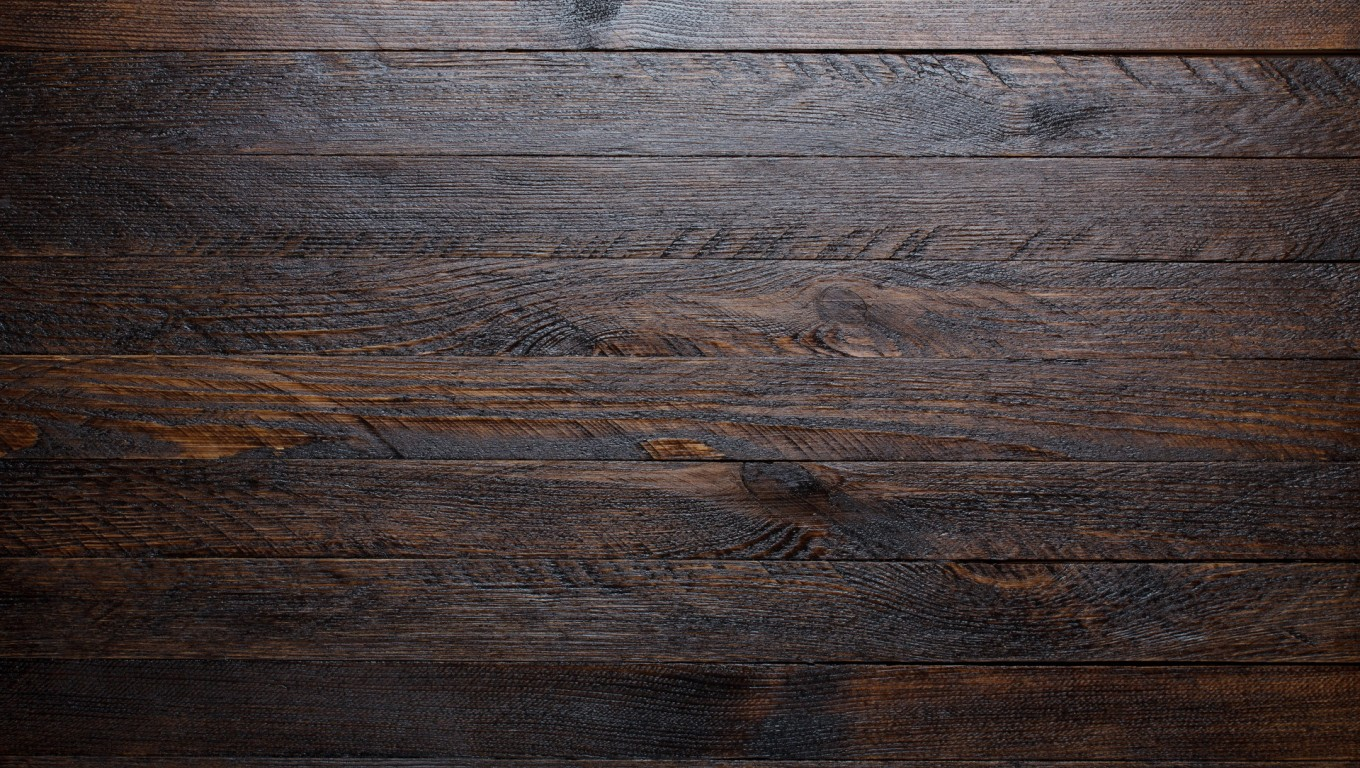
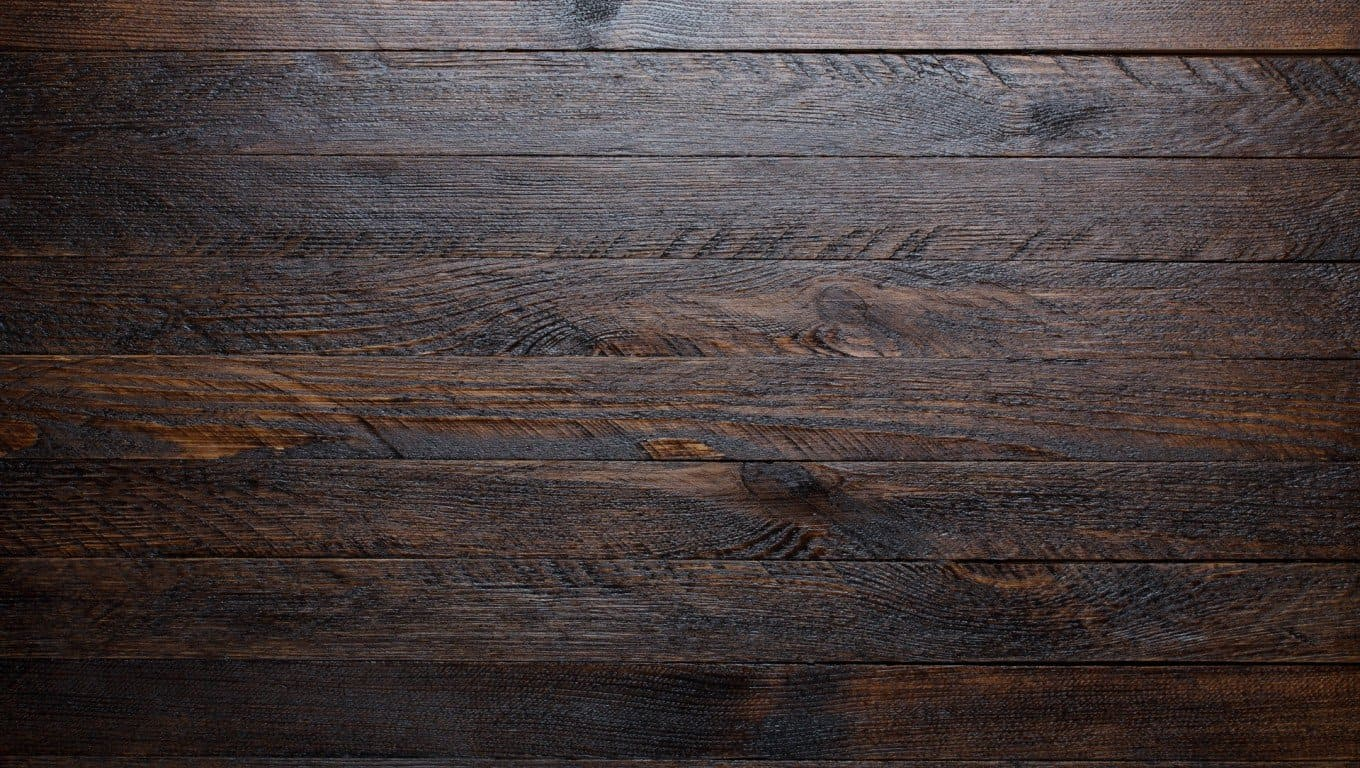
compressed 2 images that were too large

diff --git a/portfolio_update_v1/blog.html b/portfolio_update_v1/blog.html
@@ -34,7 +34,7 @@
            I tend do be critical of myself as it is so that will be quite interesting... I look forward to it though as it will help me grow as a developer.
         </p>
         <p>Well...that's all I got so far folks! I will try and update this when I can. <strong>Back to the code!</strong></p>
-        <img src="images/macbook_code.jpg" class="blog-img" alt="Picture of code on a mackbook"><p><em>Photo by Goran Ivos on Unsplash</em></p>
+        <img src="images/macbook_code1.jpg" class="blog-img" alt="Picture of code on a mackbook"><p><em>Photo by Goran Ivos on Unsplash</em></p>
       </div> 
 
 

diff --git a/portfolio_update_v1/index.html b/portfolio_update_v1/index.html
@@ -33,7 +33,7 @@
 
       <div class="content-box">
         <h2>Goals</h2>
-        <p>I want to master the process of building web sites and increase my knowledge, skills and abilities in:</p>
+        <p>I want to master the process of building web sites and increasing my knowledge, skills and abilities in:</p>
         <ul class="skills">
           <li>HTML</li>
           <li>CSS</li>

diff --git a/portfolio_update_v1/styles.css b/portfolio_update_v1/styles.css
@@ -62,7 +62,7 @@ a:hover {
 
 header {
   text-align: center;
-  background: url('images/about-img.jpg') no-repeat top center ;
+  background: url('images/about-img1.jpg') no-repeat top center ;
   background-size: cover;
   overflow: hidden;
   padding-top: 60px;
